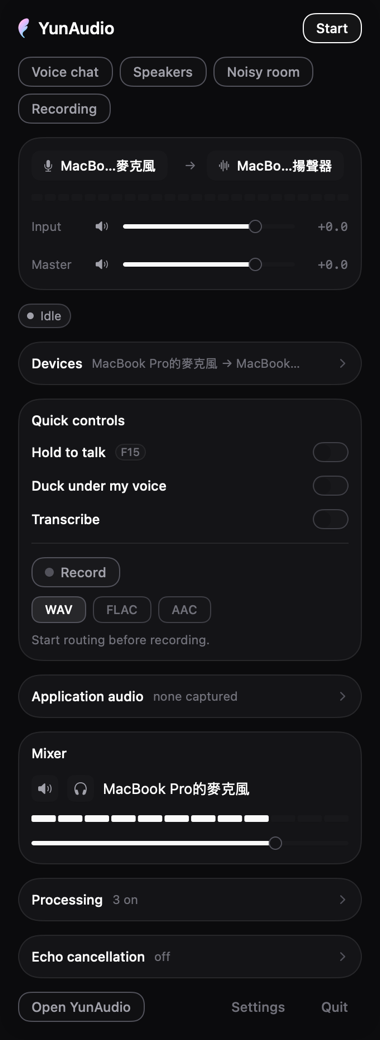
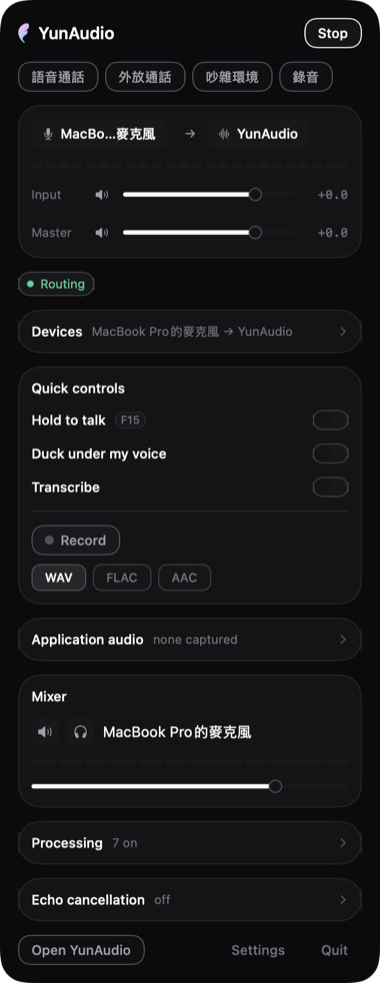
Nothing had ever photographed the menu bar panel
It is in the README's own table, and the picture there was taken by hand once,
of an interface that has moved on several times since — English labels on a
build that speaks three languages, "Idle" on a router that has had a live state
for a year.

A popover has a real window; nobody had handed it to the capture. Two things
came out of doing so, and both were the existing checks being right.

`photograph` rejected it: "panel still reserves 52.0 points above its content".
It validates that a window carries an integrated title bar, which is true of
every window this application owns and false of a popover — so the panel gets
its own path rather than the check being weakened for it.

And the first picture stopped partway down the mixer. The panel is taller than
the popover it is shown in, so its content view is only what happens to be
visible; what the documentation wants is the panel, not the window onto it. It
captures the scrolled document now and reaches Quit.

diff --git a/Sources/YunAudioApp/WindowCapture.swift b/Sources/YunAudioApp/WindowCapture.swift
@@ -202,6 +202,40 @@ enum WindowCapture {
     ) async -> Bool {
         var wroteEverything = true
 
+        // The menu bar panel, which nothing has ever photographed.
+        //
+        // It is in the README's own table and the picture there was taken by
+        // hand, once, of an interface that has moved on several times since.
+        // A popover has a real window; nobody had handed it to the capture.
+        if let statusItem = StatusItemController.current {
+            statusItem.setPanelOpenForCheck(true)
+            try? await Task.sleep(for: .milliseconds(700))
+            settle(turns: 12)
+            if let panel = statusItem.panelContentForCapture {
+                // Its own path rather than `photograph`, which validates that a
+                // window carries an integrated title bar — true of every window
+                // this application owns and false of a popover, correctly. The
+                // check is right; the panel simply is not a window in the sense
+                // it means, so what is captured is the content view.
+                if let data = capture(view: panel),
+                    (try? data.write(
+                        to: URL(fileURLWithPath: directory + "/live-panel-dark.png"))) != nil
+                {
+                    FileHandle.standardError.write(
+                        Data("photographed \(directory)/live-panel-dark.png\n".utf8))
+                } else {
+                    FileHandle.standardError.write(
+                        Data("the menu bar panel would not render\n".utf8))
+                    wroteEverything = false
+                }
+            } else {
+                FileHandle.standardError.write(
+                    Data("the menu bar panel would not open for capture\n".utf8))
+            }
+            statusItem.setPanelOpenForCheck(false)
+            try? await Task.sleep(for: .milliseconds(400))
+        }
+
         guard SettingsWindow.open(model: model),
             let settings = PreferencesWindow.openWindow()
         else {
@@ -546,6 +580,27 @@ enum WindowCapture {
         for _ in 0..<turns {
             RunLoop.current.run(mode: .default, before: Date().addingTimeInterval(0.02))
         }
+    }
+
+    /// A view on its own, for the one surface that is not in a window of ours.
+    ///
+    /// The menu bar panel lives in a popover. `capture(_ window:)` reaches for
+    /// the theme frame — the title bar, the traffic lights, the corner rounding
+    /// — and a popover has none of those; what it has is the panel.
+    private static func capture(view: NSView) -> Data? {
+        view.displayIfNeeded()
+        guard let bitmap = view.bitmapImageRepForCachingDisplay(in: view.bounds)
+        else { return nil }
+        view.cacheDisplay(in: view.bounds, to: bitmap)
+        guard let image = bitmap.cgImage else { return nil }
+        let data = NSMutableData()
+        guard
+            let destination = CGImageDestinationCreateWithData(
+                data, "public.png" as CFString, 1, nil)
+        else { return nil }
+        CGImageDestinationAddImage(destination, image, nil)
+        guard CGImageDestinationFinalize(destination) else { return nil }
+        return data as Data
     }
 
     private static func capture(_ window: NSWindow) -> Data? {

diff --git a/Sources/YunAudioApp/StatusItem.swift b/Sources/YunAudioApp/StatusItem.swift
@@ -659,6 +659,32 @@ final class StatusItemController: NSObject, NSPopoverDelegate {
     /// open here".
     var isPanelShownForCheck: Bool { popover.isShown }
 
+    /// The window the panel is drawn in, so it can be photographed.
+    ///
+    /// `docs/images/panel.png` is in the README's own table and nothing
+    /// generated it — it was taken by hand once and has been a version of the
+    /// interface nobody ships ever since. A popover has a real window; it is
+    /// simply not one anybody thought to hand to the capture.
+    var panelContentForCapture: NSView? {
+        guard popover.isShown, let root = popover.contentViewController?.view else {
+            return nil
+        }
+        // The scrolled document, when there is one.
+        //
+        // The panel is taller than the popover it is shown in, so the content
+        // view is only what happens to be visible — a photograph of it stops
+        // partway down the mixer and never reaches Quit. What the documentation
+        // wants is the panel, not the window onto it.
+        func scrolled(_ view: NSView) -> NSView? {
+            if let scroll = view as? NSScrollView { return scroll.documentView }
+            for child in view.subviews {
+                if let found = scrolled(child) { return found }
+            }
+            return nil
+        }
+        return scrolled(root) ?? root
+    }
+
     /// A retained hosting graph need not recompute its root merely because it
     /// was reattached. This is the structural proof that a reopened popover has
     /// real content; the live-child body count separately proves it is moving.
